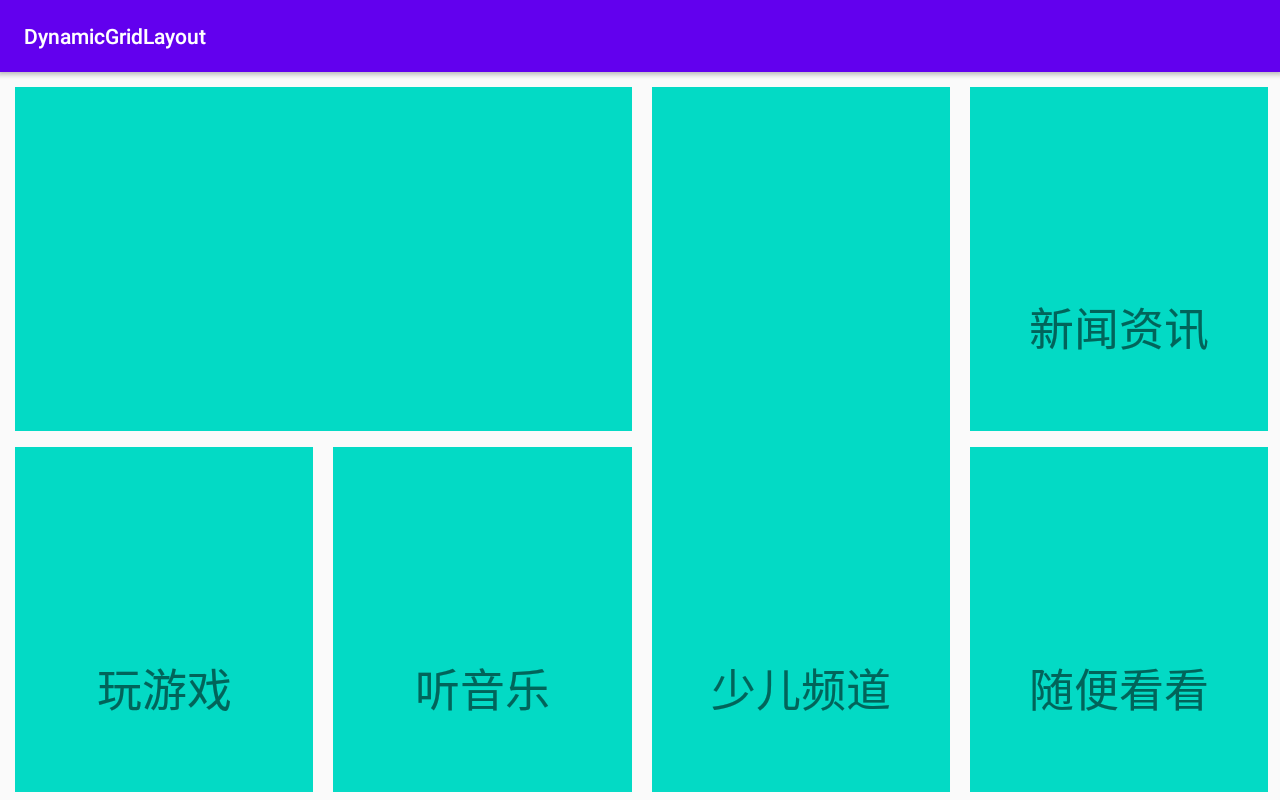
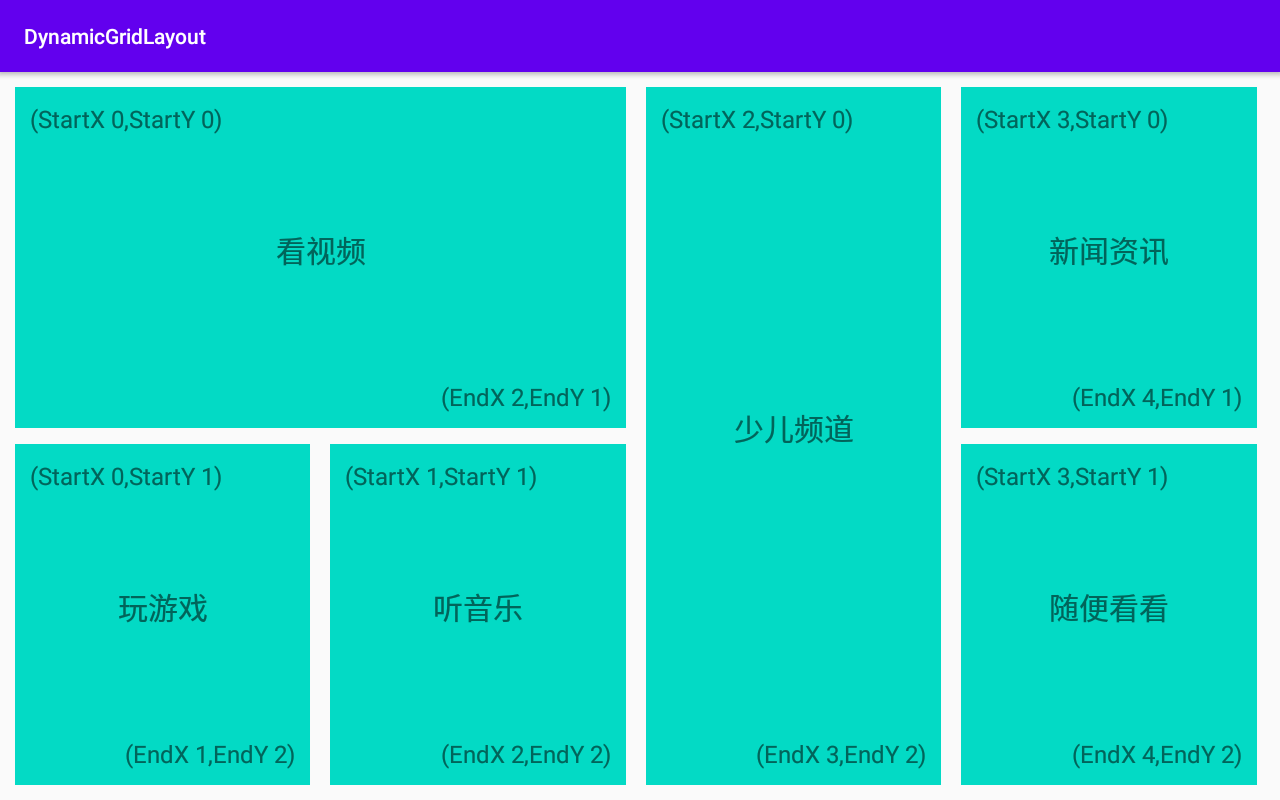
更新

diff --git a/app/src/main/java/com/tool/dynamicgridlayout/GridAdapter.java b/app/src/main/java/com/tool/dynamicgridlayout/GridAdapter.java
@@ -41,10 +41,14 @@ public class GridAdapter extends BaseAdapter<EntBean, GridViewHolder> {
     @Override
     public void onBindViewHolder(GridViewHolder holder, int position) {
         //如果第一个要做凸出来的效果可以不加载
-        if (position == 0) return;
+//        if (position == 0) return;
         super.onBindViewHolder(holder, position);
         ImageView imageView = holder.itemView.findViewById(R.id.iv_panel_img);
+        TextView textView1 = holder.itemView.findViewById(R.id.tv_panel_text1);
+        TextView textView2 = holder.itemView.findViewById(R.id.tv_panel_text2);
         TextView textView = holder.itemView.findViewById(R.id.tv_panel_text);
         textView.setText(getItem(position).getText());
+        textView2.setText(String.format("(StartX %d,StartY %d)", getItem(position).getStartX(), getItem(position).getStartY()));
+        textView1.setText(String.format("(EndX %d,EndY %d)", getItem(position).getEndX(), getItem(position).getEndY()));
     }
 }

diff --git a/README.md b/README.md
@@ -1,8 +1,6 @@
 # DynamicGridLayout
 GridLayout结合RecyclerView.Adapter实现单页栅格列表的显示
 
-Demo中没有加载第一个Item，需要到Adapter中修改
-
 使用：
 1.添加布局
 ```
